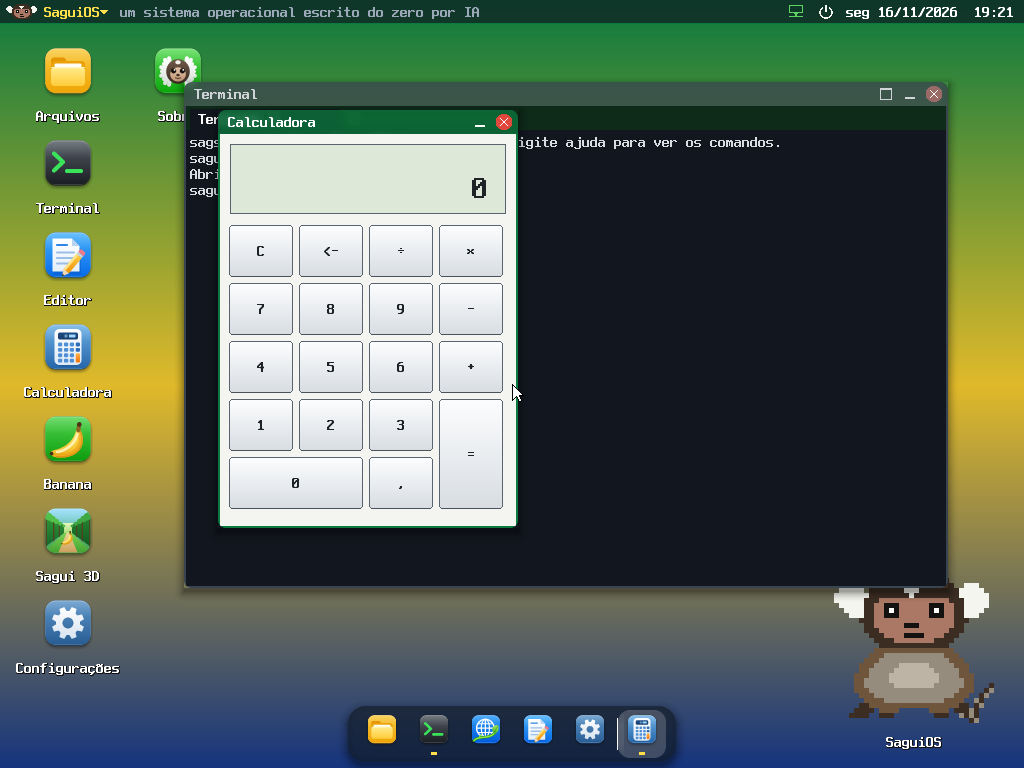
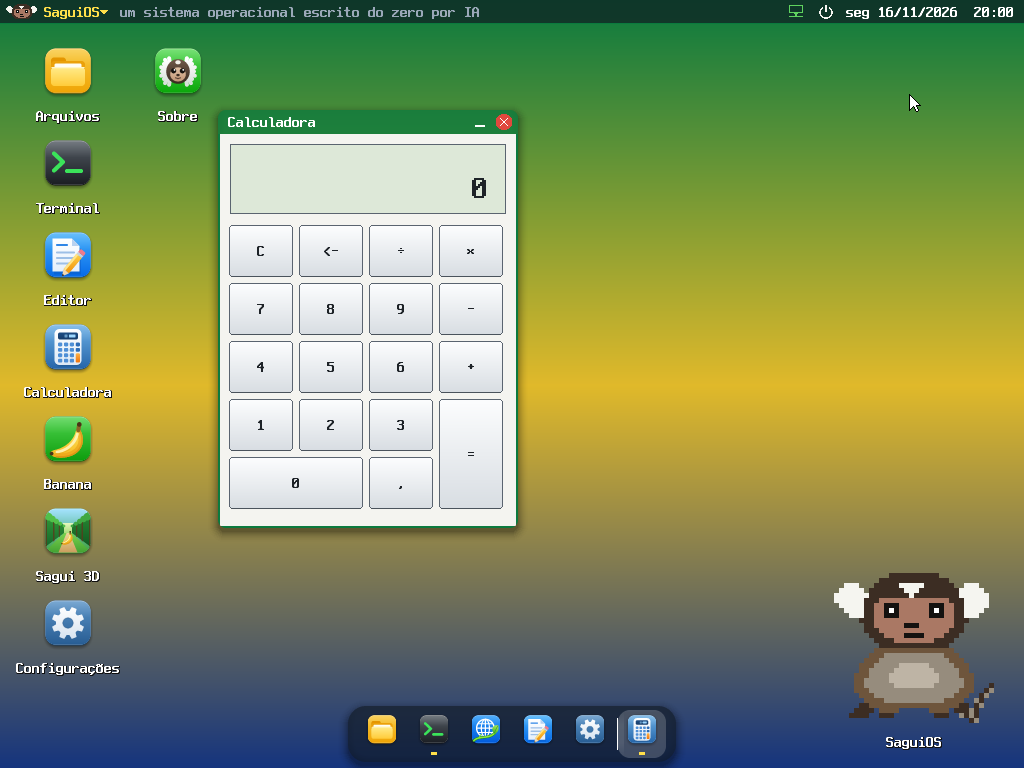
Sombra das janelas e dos menus segue a curva dos cantos
A sombra antiga era a de um retângulo de cantos retos: em volta do canto
arredondado ficava uma ponta escura. vidro_sombra passa a usar a sombra da
doca (vidro_sombra_r) com o raio dos cantos. h104 confere na captura que a
sombra é mais fraca na diagonal do canto; com a sombra de cantos retos
(raio 0) o teste falha.

diff --git a/tests/h104_cantos.py b/tests/h104_cantos.py
@@ -10,6 +10,8 @@ Critérios (medidos nos pixels da captura):
     e o pixel do meio da curva é uma mistura das duas cores;
   - canto de baixo da janela: também redondo (a ponta é o fundo, não a
     borda), e o pixel do meio da curva é mistura;
+  - a sombra segue a curva: na diagonal do canto ela é mais fraca que
+    embaixo da janela, à mesma distância;
   - menu do botão direito: o mesmo nos cantos de cima;
   - capturas para a revisão a olho.
 """
@@ -39,6 +41,9 @@ def main():
         n = len(m.serial())
         m.digitar("calculadora\n", 0.03)
         m.esperar_serial('"Calculadora"', 30)
+        time.sleep(1)
+        t = janela(m.serial(), "Terminal")
+        m.clique(t["x"] + t["l"] - 37, t["y"] - 12)       # minimiza o Terminal: a Calculadora fica sobre o fundo claro
         time.sleep(1.5)
         c = janela(m.serial()[n:], "Calculadora")
         png = m.captura("H104-janela")
@@ -46,7 +51,7 @@ def main():
         fa = c["a"] + 24 + 2
 
         fora, dentro, meio = cor_do_pixel(png, fx, fy), cor_do_pixel(png, fx + 12, fy + 2), cor_do_pixel(png, fx + 2, fy + 2)   # (12, 2): barra, antes do título
-        verificar(distancia(fora, dentro) > 60, f"o canto de cima é redondo: ponta {fora}, barra {dentro}")
+        verificar(distancia(fora, dentro) > 25, f"o canto de cima é redondo: ponta {fora}, barra {dentro}")
         verificar(mistura(meio, fora, dentro), f"a curva de cima é suavizada: {meio} entre {fora} e {dentro}")
 
         ponta, borda = cor_do_pixel(png, fx, fy + fa - 1), cor_do_pixel(png, fx + 12, fy + fa - 1)
@@ -54,6 +59,17 @@ def main():
         meio_b = cor_do_pixel(png, fx + 3, fy + fa - 2)    # linha 1, coluna 3 do canto: 156 de 256 dentro
         borda_b = cor_do_pixel(png, fx + 12, fy + fa - 2)
         verificar(mistura(meio_b, ponta, borda_b), f"a curva de baixo é suavizada: {meio_b} entre {ponta} e {borda_b}")
+
+        # A sombra segue a curva: na diagonal do canto de baixo ela é mais
+        # clara que embaixo do meio da janela, à mesma distância. (A sombra
+        # antiga era de cantos retos e deixava uma ponta escura ali.)
+        def brilho(c):
+            return sum(c)
+        diag = cor_do_pixel(png, fx - 2, fy + fa + 4)
+        baixo = cor_do_pixel(png, fx + 60, fy + fa + 4)
+        longe = cor_do_pixel(png, fx + 60, fy + fa + 40)
+        verificar(brilho(diag) - brilho(baixo) > 0.3 * (brilho(longe) - brilho(baixo)),
+                  f"a sombra arredonda no canto: diagonal {diag}, embaixo {baixo}, fundo {longe}")
 
         # O menu do botão direito na área vazia.
         n = len(m.serial())

diff --git a/kernel/gui/vidro.c b/kernel/gui/vidro.c
@@ -232,27 +232,12 @@ void vidro_sombra_r(superficie_t *s, int x, int y, int l, int a, int r)
     }
 }
 
+/* Sombra das janelas e dos menus: a mesma da doca, que segue a curva dos
+ * cantos. A antiga era a de um retângulo de cantos retos e deixava uma
+ * ponta escura por fora do canto arredondado. */
 void vidro_sombra(superficie_t *s, int x, int y, int l, int a)
 {
-    if (!vidro_efeitos) return;
-    const int S = VIDRO_SOMBRA, desce = 4;
-    int bx0 = x - S, by0 = y - S + desce, bx1 = x + l + S, by1 = y + a + S + desce;
-    int x0 = bx0 < s->cx0 ? s->cx0 : bx0, y0 = by0 < s->cy0 ? s->cy0 : by0;
-    int x1 = bx1 > s->cx1 ? s->cx1 : bx1, y1 = by1 > s->cy1 ? s->cy1 : by1;
-    for (int j = y0; j < y1; j++) {
-        /* Distância vertical até a janela (deslocada para baixo). */
-        int dy = j < y + desce ? y + desce - j : (j >= y + a + desce ? j - (y + a + desce) + 1 : 0);
-        uint32_t *p = s->px + j * s->larg;
-        for (int i = x0; i < x1; i++) {
-            if (i >= x && i < x + l && j >= y && j < y + a) { i = x + l - 1; continue; }   /* debaixo da janela: nada */
-            int dx = i < x ? x - i : (i >= x + l ? i - (x + l) + 1 : 0);
-            int d = dx > dy ? dx : dy;
-            if (dx && dy) d = (dx + dy) * 3 / 4 > d ? (dx + dy) * 3 / 4 : d;   /* cantos mais suaves */
-            if (d >= S) continue;
-            int f = S - d;                         /* 1..S */
-            p[i] = escurecer(p[i], f * f * 90 / (S * S));
-        }
-    }
+    vidro_sombra_r(s, x, y, l, a, VIDRO_CANTO);
 }
 
 bool vidro_efeitos = true;
